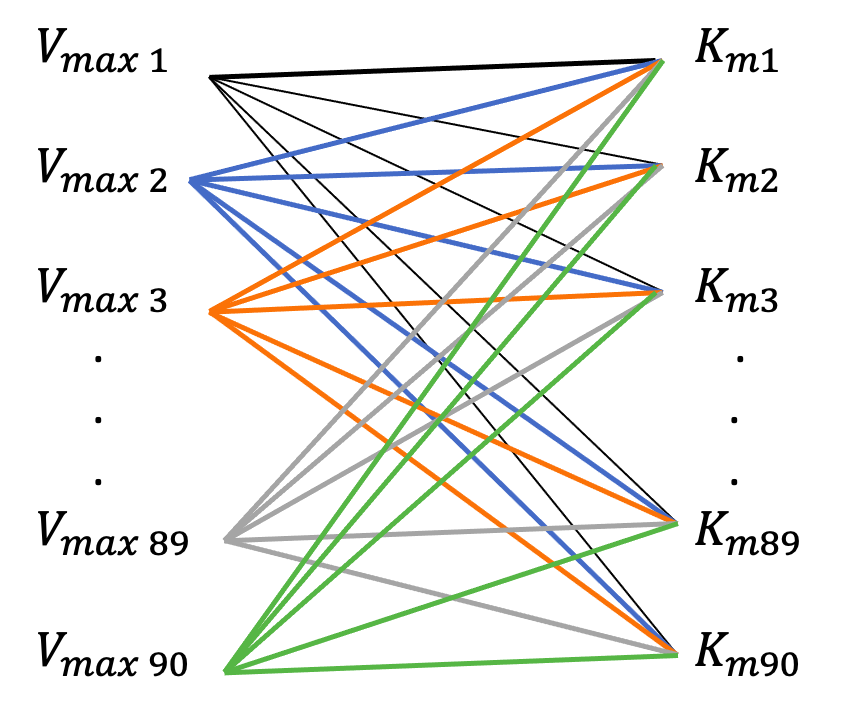
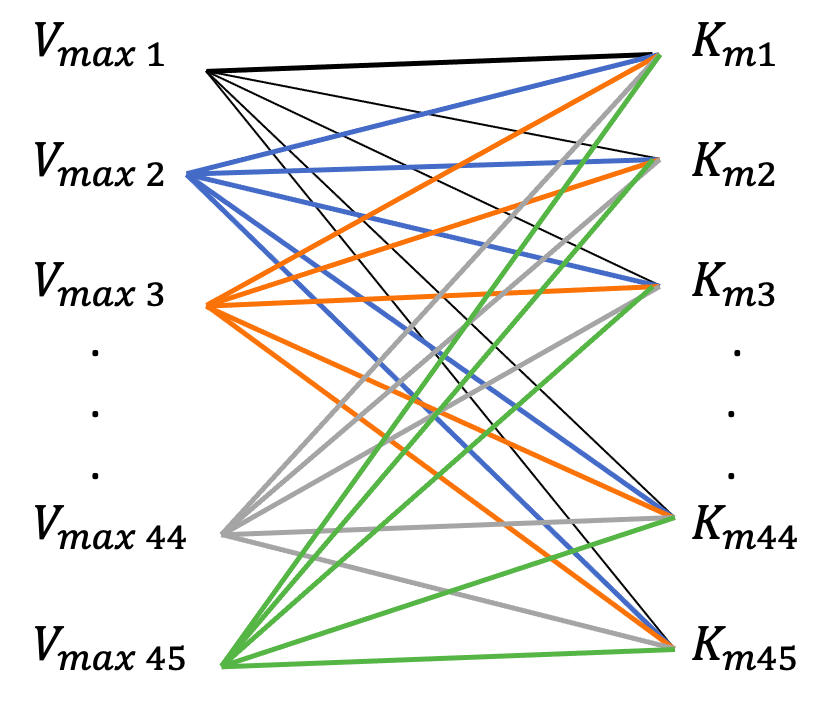
concept fix

diff --git a/index.html b/index.html
@@ -28,7 +28,7 @@
 				<p>
 					The main focus of this project was to find the best fitting model parameters to represent a data set of reaction velocities and substrate concentrations. In an ideal situation, the data could be perfectly modeled by the Michaelis-Menten curve shown in the image with the red curve. The equation to model this is shown below the graph. V0 refers to the reaction velocity v. How we obtain V0 from the set of data will be further discussed later. V<sub>max</sub> refers to the maximum reaction velocity or the asymptote at which the red curve approaches. K<sub>m</sub> is the substrate concentration that corresponds to a reaction velocity that is half V<sub>max</sub>. And S is the substrate concentration.
 					<br><br>
-					In this project, we were given 5 enzymes to analyze: A, B, C, D, E. Each enzyme had a test 1 and an extra test 1 duplicate. We therefore had 10 sets of data in total. Our first step was to obtain the V0 values from each set of data. For each set of data, we were given 10 seperate initial substrate concentrations and we could therefore determine 10 sets of points on the graph (i.e. (S1, V1), (S2, V2)... (S10, V10)). The main challenge in this project was to determine the best fit V<sub>max</sub> and K<sub>m</sub> parameters in the <b><a href = "https://en.wikipedia.org/wiki/Michaelis%E2%80%93Menten_kinetics" target = "_blank">Michaelis-Menten Equation</a></b> to represent the 10 sets of points we have found from the data. We combined two fundamental steps in order to solve this nonlinear regression problem. The first step involved an algebraic approach while the second step involved using the fundamentals of calculus. Our ultimate goal is to compete with the accuracy of previously discovered methods such as the <b><a href = "https://en.wikipedia.org/wiki/Eadie%E2%80%93Hofstee_diagram" target = "_blank">Eadie–Hofstee diagram</a></b>, <b><a href = "https://en.wikipedia.org/wiki/Hanes%E2%80%93Woolf_plot" target = "_blank">Hanes–Woolf plot</a></b> and <b><a href = "https://en.wikipedia.org/wiki/Lineweaver%E2%80%93Burk_plot" target = "_blank">Lineweaver–Burk plot</a></b>.
+					In this project, we were given 5 enzymes to analyze: A, B, C, D, E. Each enzyme had a test 1 and an extra test 1 duplicate. We therefore had 10 sets of data in total. Our first step was to obtain the V0 values from each set of data. For each set of data, we were given 10 seperate initial substrate concentrations and we could therefore determine 10 sets of points on the graph (i.e. (S1, V1), (S2, V2)... (S10, V10)). The main challenge in this project was to determine the best fit V<sub>max</sub> and K<sub>m</sub> parameters in the <b><a href = "https://en.wikipedia.org/wiki/Michaelis%E2%80%93Menten_kinetics" target = "_blank">Michaelis-Menten Equation</a></b> to represent the 10 sets of points we have found from the data. We combined two fundamental steps in order to solve this nonlinear regression problem. The first step involved an algebraic approach while the second step involved mixing and matching our potential V<sub>max</sub> and K<sub>m</sub> candidates. Our ultimate goal is to be as accurate as previously discovered methods such as the <b><a href = "https://en.wikipedia.org/wiki/Eadie%E2%80%93Hofstee_diagram" target = "_blank">Eadie–Hofstee diagram</a></b>, <b><a href = "https://en.wikipedia.org/wiki/Hanes%E2%80%93Woolf_plot" target = "_blank">Hanes–Woolf plot</a></b> and <b><a href = "https://en.wikipedia.org/wiki/Lineweaver%E2%80%93Burk_plot" target = "_blank">Lineweaver–Burk plot</a></b>.
 
 
 					<br><br>
@@ -70,18 +70,18 @@
 		<br>
 		<div class = "algebraic_approach">
 			<div class = "algebra">
-				<div class = "text">Step 1: The Algebra Based Approach</div>
-				Our first approach involves solving systems of equations. At the moment, we are solving for two unknown variables V<sub>max</sub> and K<sub>m</sub>. Because we need two equations to solve two unknowns, we can pick any two coordinates from our previously determined 10 points to form two equations. The working is shown with the final equations highlighted.<br><br>
-				Just for example, we might test out points (S7, V7), (S10, V10). Their values are (250 uM, 0.5553 uM / s) and (2000 uM, 0.8794 uM / s) respectively. Based on the highlighted final equations, we should calculate K<sub>m</sub> first since that equation does not hold any unknown values. Though it does not matter which points we pick for V1, S1 and V2, S2, it is important to be consistent after you choose the values. The computed K<sub>m</sub> based on these two coordinates is 189.925 uM and the V<sub>max</sub> value was found to be 0.9594 uM / s. This method can be repeated for several different combinations of points e.g. (S7, V7), (S8, V8).
+				<div class = "text">Step 1: The Algebraic Approach</div>
+				The main idea involves solving a system of equations. At the moment, we are solving for two unknown variables V<sub>max</sub> and K<sub>m</sub>. Because we need two equations to solve two unknowns, we can pick any two coordinates from our previously determined 10 points to form two equations. The working is shown with the final equations highlighted.<br><br>
+				Just for example, we might test out points (S7, V7), (S10, V10). Their values are (250 uM, 0.5553 uM / s) and (2000 uM, 0.8794 uM / s) respectively. Based on the highlighted final equations, we should calculate K<sub>m</sub> first since that equation does not hold any unknown values. Though it does not matter which points we pick for V1, S1 and V2, S2, it is important to be consistent after you choose the values. The computed K<sub>m</sub> based on these two coordinates is 189.925 uM and the V<sub>max</sub> value was found to be 0.9594 uM / s. This method can be repeated for several different combinations of points e.g. (S7, V7), (S8, V8) or (S7, V7), (S9, V9)... etc.
 				<br><br>
-				With this method, the challenge is to determine which two set of coordinates out of our 10 would be the best to select and represent the model. If we try out all possible combinations we will get 0.5*n*(n-1) different possibilities (where n is the number of points total). We therefore have 45 different combinations to test and try out.<br><br>
-				The first iteration of this idea was to find the best pair of coordinates out of the 45 combinations which resulted in the least SSE (Sum of Squared Errors). While this method was fairly accurate, it lacked precision (especially when we ran the algorithm on all 5 enzymes). This led us to reconsider our approach and ultimately led to the second method: The Calculus Based Approach.
+				With this method, the challenge was to determine which two set of coordinates out of our 10 would be the best to select and represent the model. If we try out all possible combinations we will get 0.5*n*(n-1) different possibilities (where n is the number of points total). We therefore have 45 different combinations to test and try out.<br><br>
+				The first iteration of this idea was to find the best pair of coordinates out of the 45 combinations which yielded V<sub>max</sub> and K<sub>m</sub> values that resulted in the least SSE (Sum of Squared Errors). While this method was fairly accurate, it lacked precision (especially when we ran the algorithm on all 5 enzymes). This led us to reconsider our approach and ultimately led to Step 2: mixing and matching.
 			</div>
 			<div class = "alg_work">
 				<img src = "images/algebraic.png" class = "pic" width = "100%" alt = "">
 			</div>
 		</div>
-		<br>
+<!-- 		<br>
 		<div class = "calculus_approach">
 			<div class = "calculus">
 				<div class = "text">Step 2: The Calculus Based Approach</div>
@@ -111,22 +111,22 @@
 				The black line represents the line x = K<sub>m</sub><br><br>
 				Want to see it for yourself? Click <b><a href = "https://www.desmos.com/calculator/douvhuwvng" target = "_blank">here</a></b>.
 			</div>
-		</div>
+		</div> -->
 		<br>
 		<div class = "mix_n_match">
 			<div class = "mix">
-				<div class = "text">Step 3: Mix and Match / Minimizing SSE</div>
-				Rather than test out just 90 possible pairs of K<sub>m</sub> and V<sub>max</sub>, we finalized our algorithm by testing every single possible combination of them. The potential candidates that would go through the evaluation to minimize SSE would therefore include: <br><br>
+				<div class = "text">Step 2: Mix and Match / Minimizing SSE</div>
+				Rather than test out just 45 possible pairs of K<sub>m</sub> and V<sub>max</sub>, we finalized our algorithm by testing every single possible combination of them. The potential candidates that would go through the evaluation to minimize SSE would therefore include: <br><br>
 				<ul class = "shift">
-					<li>(K<sub>m1</sub>, V<sub>max1</sub>), (K<sub>m1</sub>, V<sub>max2</sub>), (K<sub>m1</sub>, V<sub>max3</sub>)...(K<sub>m90</sub>, V<sub>max90</sub>)</li>
-					<li>(K<sub>m2</sub>, V<sub>max1</sub>), (K<sub>m2</sub>, V<sub>max2</sub>), (K<sub>m2</sub>, V<sub>max3</sub>)...(K<sub>m2</sub>, V<sub>max90</sub>)</li>
-					<li>(K<sub>m3</sub>, V<sub>max1</sub>), (K<sub>m3</sub>, V<sub>max2</sub>), (K<sub>m3</sub>, V<sub>max3</sub>)...(K<sub>m3</sub>, V<sub>max90</sub>)</li>
+					<li>(K<sub>m1</sub>, V<sub>max1</sub>), (K<sub>m1</sub>, V<sub>max2</sub>), (K<sub>m1</sub>, V<sub>max3</sub>)...(K<sub>m1</sub>, V<sub>max45</sub>)</li>
+					<li>(K<sub>m2</sub>, V<sub>max1</sub>), (K<sub>m2</sub>, V<sub>max2</sub>), (K<sub>m2</sub>, V<sub>max3</sub>)...(K<sub>m2</sub>, V<sub>max45</sub>)</li>
+					<li>(K<sub>m3</sub>, V<sub>max1</sub>), (K<sub>m3</sub>, V<sub>max2</sub>), (K<sub>m3</sub>, V<sub>max3</sub>)...(K<sub>m3</sub>, V<sub>max45</sub>)</li>
 					<li>. . . . . . .</li>
-					<li>(K<sub>m90</sub>, V<sub>max1</sub>), (K<sub>m90</sub>, V<sub>max2</sub>), (K<sub>m90</sub>, V<sub>max3</sub>)...(K<sub>m90</sub>, V<sub>max90</sub>)</li>
+					<li>(K<sub>m45</sub>, V<sub>max1</sub>), (K<sub>m45</sub>, V<sub>max2</sub>), (K<sub>m45</sub>, V<sub>max3</sub>)...(K<sub>m45</sub>, V<sub>max45</sub>)</li>
 				</ul>
 				<br>
-				We would end up with 90 * 90 = 8100 possible combinations of K<sub>m</sub> and V<sub>max</sub> for each of the 5 enzymes.
-				For each pair in the 8100, the K<sub>m</sub> and V<sub>max</sub> would be passed to a function to evaluate the SSE. This is done by summing the squared differences between the predicted value of the coordinate points based on the provided K<sub>m</sub> and V<sub>max</sub> parameters vs the true values based on the 10 determined coordinate points in the beginning.
+				We would end up with 45 * 45 = 2025 possible combinations of K<sub>m</sub> and V<sub>max</sub> for each of the 5 enzymes.
+				For each pair in the 2025, the K<sub>m</sub> and V<sub>max</sub> would be passed to a function to evaluate the SSE. This is done by summing the squared differences between the predicted value of the coordinate points based on the provided K<sub>m</sub> and V<sub>max</sub> parameters vs the true values based on the 10 determined coordinate points in the beginning.
 			</div>
 			<div class = "match">
 				<img src = "images/matching.png" class = "pic" width = "100%" alt = "">
